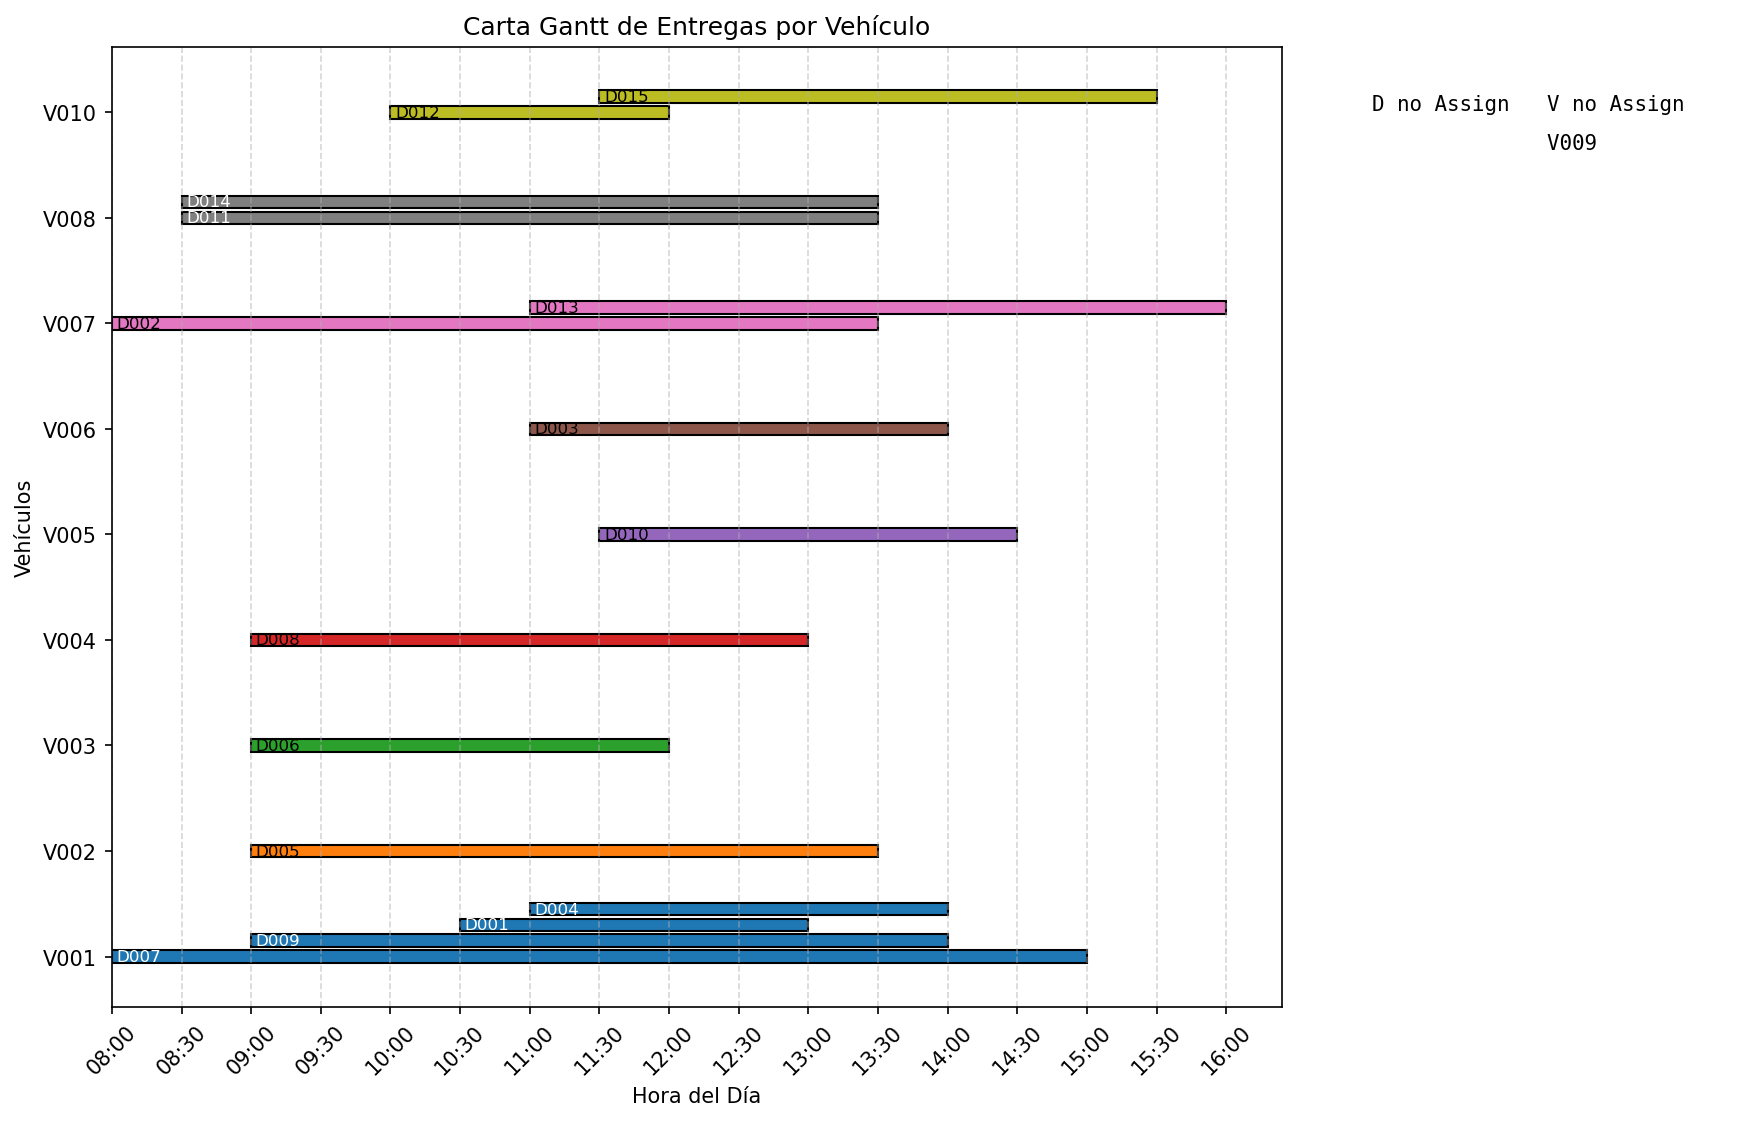
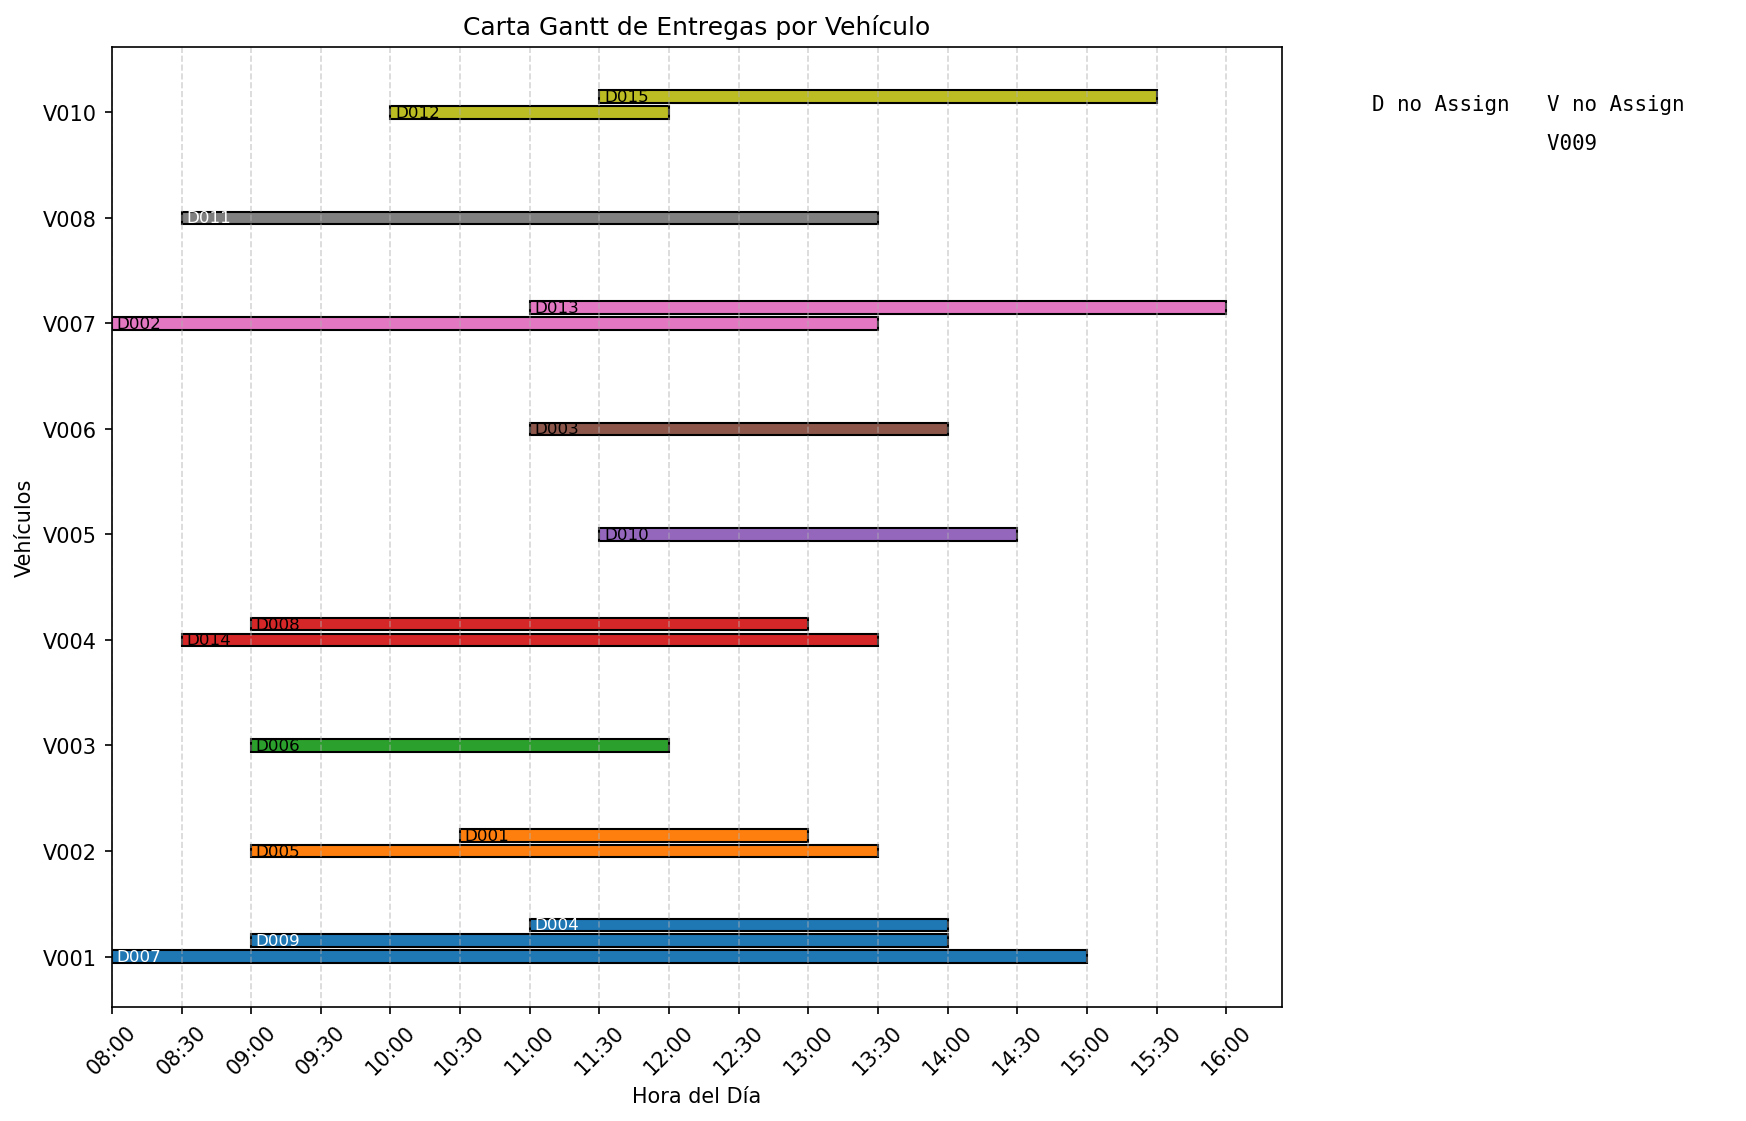
Se implementó la optimización de detección de conflictos

diff --git a/src/assist.c b/src/assist.c
@@ -112,3 +112,25 @@ float calculate_satisfaction(Delivery *delivery, int n_deliveries, int completed
 
     return total_satisfaction / completed_deliveries;
 }
+
+// Verificación solapamientos de tiempo con entregas previas (Detección de conflictos)
+bool has_time_conflict(Delivery *deliveries, int n_deliveries, Delivery *current)
+{
+    int current_start = time_to_minutes(current->start);
+    int current_end = current_start + current->duration;
+
+    for (int i = 0; i < n_deliveries; i++)
+    {
+        if (strcmp(deliveries[i].vehicle_assigned, "") != 0 &&
+            strcmp(deliveries[i].vehicle_assigned, current->vehicle_assigned) == 0)
+        {
+            int assigned_start = time_to_minutes(deliveries[i].start);
+            int assigned_end = assigned_start + deliveries[i].duration;
+
+            if ((current_start < assigned_end && current_end > assigned_start))
+                return true; // Hay solapamiento
+        }
+    }
+
+    return false;
+}

diff --git a/src/greedy_pb.c b/src/greedy_pb.c
@@ -32,12 +32,15 @@ void schedule_pb(Delivery *deliveries, int n_deliveries, Vehicle *vehicles, int 
                 float delivery_distance = calculate_distance(deliveries[i].origin_x, deliveries[i].origin_y, deliveries[i].destination_x, deliveries[i].destination_y);
                 float real_distance = distance_to_origin + delivery_distance;
 
-                if (real_distance < min_distance)
+                // Verificación de conflictos de tiempo
+                strcpy(deliveries[i].vehicle_assigned, vehicles[j].id);
+                if (!has_time_conflict(deliveries, i, &deliveries[i]) && real_distance < min_distance)
                 {
                     min_distance = real_distance;
                     best_vehicle = j;
                     best_real_distance = real_distance;
                 }
+                strcpy(deliveries[i].vehicle_assigned, ""); // Limpiar asignación temporal
             }
         }
 

diff --git a/incs/header.h b/incs/header.h
@@ -4,6 +4,7 @@
 #include <string.h>
 #include <float.h>
 #include <time.h>
+#include <stdbool.h>
 
 #define MAX_ID_LENGTH 12
 #define MAX_LINE_LENGTH 256
@@ -110,6 +111,7 @@ void generate_random_deliveries_csv();
 void generate_random_vehicles_csv();
 void create_random_databases();
 void export_to_csv(const char *, Delivery *, int);
+bool has_time_conflict(Delivery *, int, Delivery *);
 
 // Funciones de errores
 void fatal_error(const char *, const char *, const char *);
